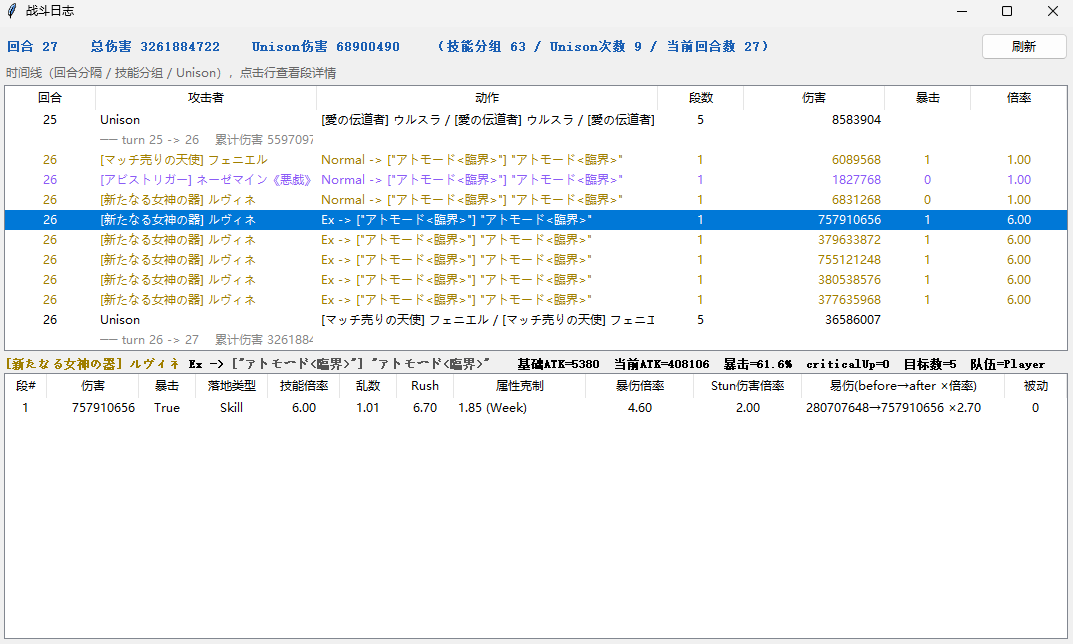
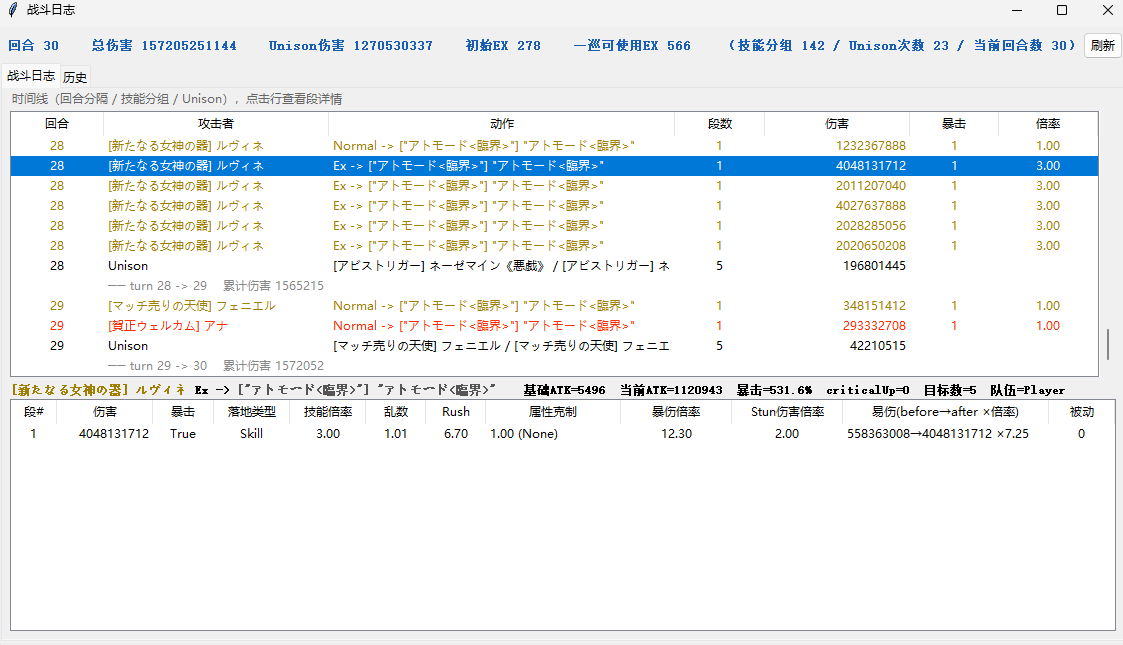
docs: 更新中英文 README 及截图，新增战斗历史回看、版本检测等功能

diff --git a/README.md b/README.md
@@ -30,12 +30,14 @@ TSKBattleLog captures and analyzes battle events from the game runtime — damag
 - Per-unit damage tracking with post-battle ranking
 - Multi-hit skill grouping (per attacker / turn / kind / segment) with crit count and skill multiplier
 - Unison damage tracking
-- Battle Log window: battle timeline (turn separators with cumulative damage, per-attacker skill groups colored by attribute, Unison events) with a per-segment detail panel showing damage coefficients — fluctuation / rush / attribute / critical / down / vulnerability rate / passive
-- Configurable auto-battle skill selection via `char_skill.json`
+- Battle Log window: battle timeline (turn separators with cumulative damage, per-attacker skill groups colored by attribute, Unison events) with a per-segment detail panel showing damage coefficients — fluctuation / rush / attribute / critical / down / vulnerability rate / passive; the info line also shows battle mode, initial EX and first-round usable EX
+- Battle history: snapshots are auto-saved to `logs/battles/` when a battle ends; the History tab lists past battles newest-first (time / mode / turns / total damage / party) for one-click replay, with locking to protect important battles and one-click cleanup of unlocked records; the window also works without injection for browsing local snapshots
+- Configurable auto-battle skill selection via `char_skill.json`; a per-unit priority dropdown under each player avatar (Default / Normal / EX1 / EX2 / Random) applies changes instantly
 - Config-driven debug observation points and IL2CPP backtraces via `trace_config.json`
 - Mod loader with runtime enable/disable and a floating control panel
-- Unit avatar bar (player icons from the wiki) + compact enemy list; click any unit to view its live buffs, ATK/CRT/NoteCount and EX stats, with detail/summary toggle
+- Unit avatar bar (player icons from the wiki, tolerant of full-/half-width parentheses in file names) + compact enemy list; click any unit to view its live buffs, ATK/CRT/NoteCount and EX stats, with detail/summary toggle
 - Auto-saved log files + in-panel log viewer (clear / copy / open logs folder)
+- On startup, checks GitHub for the latest release and shows a clickable download link on the Settings tab when a newer version exists (silent on failure)
 
 ## Mod categories
 
@@ -72,14 +74,15 @@ The script runs `npm run build` first, then opens the panel. Tick the mods you w
 Panel features:
 
 - **窗口置顶** toggle (top-left)
-- **MODs / Logs** tabs (never shown at the same time); switch to Logs automatically after injection starts
+- **MODs / Logs / 设置 (Settings)** tabs; switch to Logs automatically after injection starts
 - Mod list grouped by Observer / Modifier / Debug. Selection is persisted to `mods.json`. Checkboxes are locked after injection starts (changing mods mid-battle is unsafe).
 - **重载配置**: re-read `trace_config.json` and update trace/backtrace points at runtime
 - **隐藏单位栏**: hide the player avatar bar and enemy list to focus on logs
+- **设置 (Settings)** tab: battle speed (default 3x), log font size / colored log / diagnostic log toggles, an "open game install directory" entry for unit-list-dump, plus the current version and a new-version download link (all persisted to `gui_config.json`)
 - Log viewer with **清空 / 复制日志 / 打开日志目录**; logs are also auto-saved to `logs/` (8 KB buffer, flushed on close)
 - 5000-line ring buffer; older lines are dropped automatically
-- Player avatar bar (48 px wiki icons) and a compact enemy name strip above it. Clicking any unit opens a **Skill Effects** window showing live buffs (detail / summary toggle) plus ATK (base), CRT, NoteCount, EX rate and normal-attack EX gain.
-- **战斗日志** button: opens the Battle Log window (on-demand snapshot, refresh to pull the latest; window size/position remembered)
+- Player avatar bar (48 px wiki icons) and a compact enemy name strip above it. Each avatar has a skill-priority dropdown (Default / Normal / EX1 / EX2 / Random) that writes to `char_skill.json` and takes effect instantly. Clicking any unit opens a **Skill Effects** window showing live buffs (detail / summary toggle) plus ATK (base), CRT, NoteCount, EX rate and normal-attack EX gain.
+- **战斗日志** button: opens the Battle Log window (on-demand snapshot, refresh to pull the latest; window size/position remembered). Inside is a **历史 (History)** tab: snapshots are auto-saved to `logs/battles/` when a battle ends, listed newest-first for one-click replay, with locking and one-click cleanup of unlocked records; the window also opens without injection to browse/replay local snapshots.
 
 ### Method B: Headless injection (console only)
 
@@ -98,7 +101,7 @@ Download `TSKBattleLog-windows-x64.zip` from [Releases](../../releases) (or from
 - No Python or frida installation required — dependencies are bundled
 - The panel works exactly like [Method A](#method-a-floating-control-panel-recommended): tick the mods you want, then press **▶ 启动注入**
 - Config files sit next to the exe and can be edited directly: `mods.json` (mod toggles), `trace_config.json` (debug observation points), `char_skill.json` (auto-skill priority)
-- Logs are written to `logs/` next to the exe; window position is remembered in `gui_config.json`
+- Logs are written to `logs/` next to the exe (battle snapshots in `logs/battles/`); window position and other personal preferences are kept in `gui_config.json`
 
 To build it yourself, see [`.github/workflows/build-exe.yml`](.github/workflows/build-exe.yml).
 
@@ -119,7 +122,7 @@ Every feature is its own mod under `src/mods/`. `mods.json` holds the default en
 
 ## Skill configuration (`char_skill.json`)
 
-Controls the priority used by `auto-skill`.
+Controls the priority used by `auto-skill`. The easiest way is the dropdown under each player avatar in the panel (Default / Normal / EX1 / EX2 / Random), which writes and applies changes instantly; you can also edit this file by hand.
 
 ```json
 {
